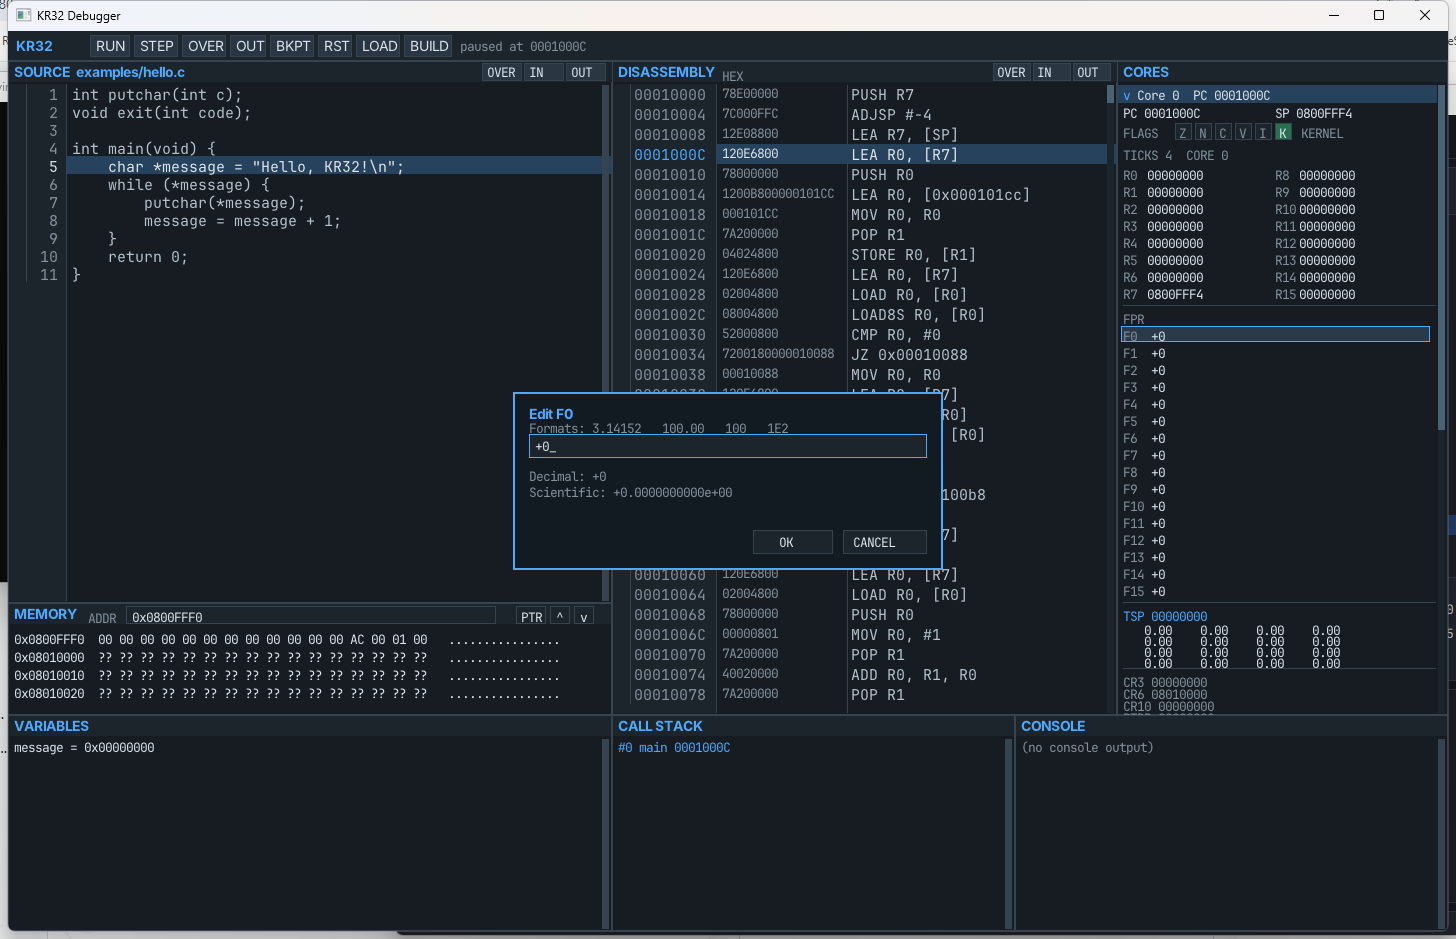
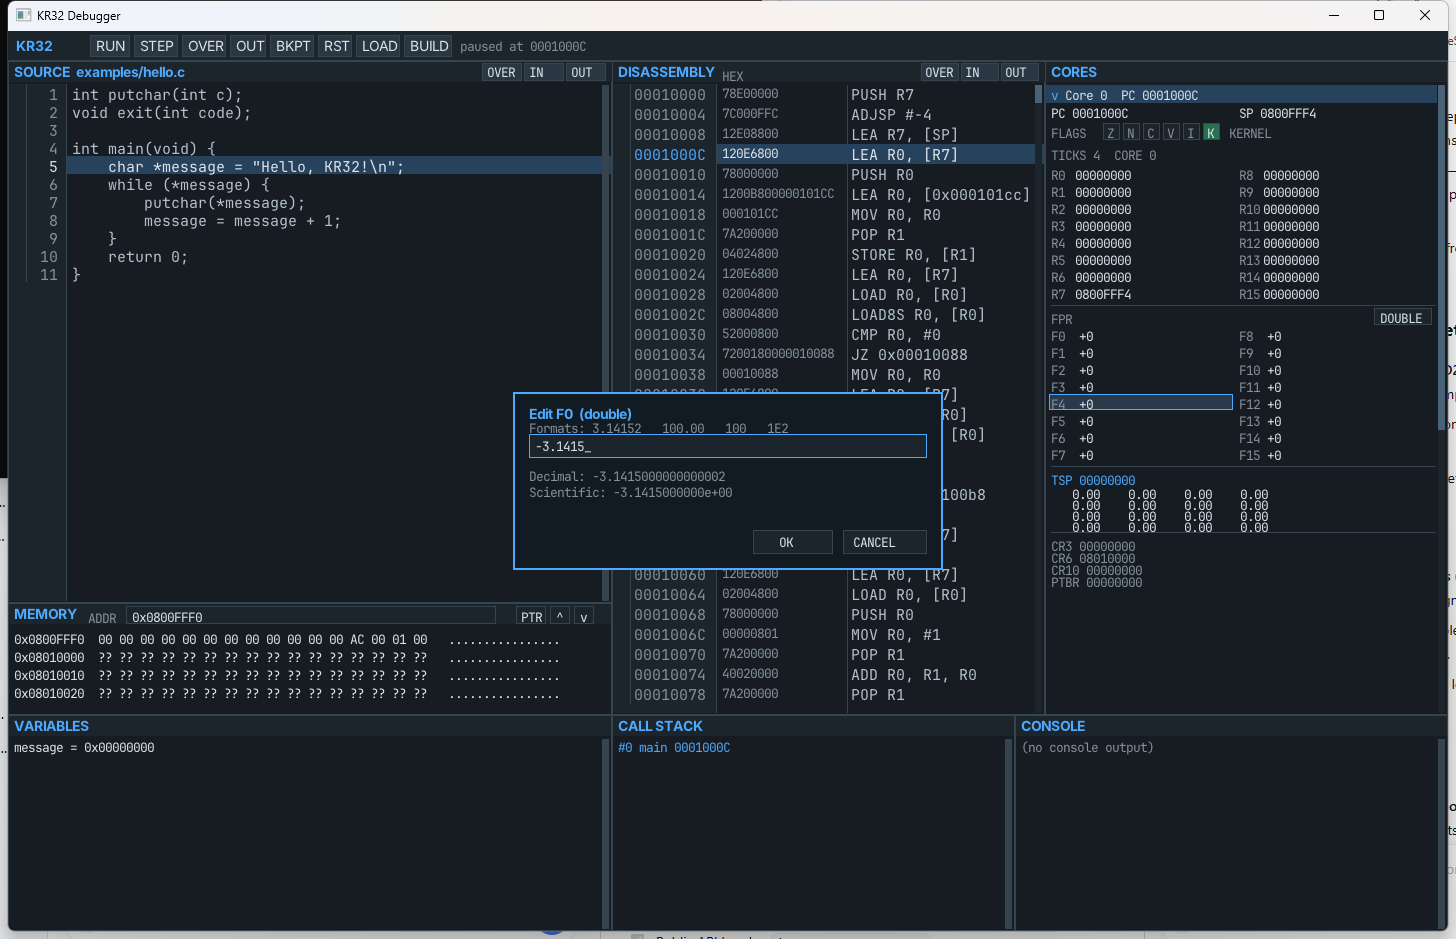
UI: two-column FPRs with double/float view toggle

diff --git a/src/ui/debugger_ui.cpp b/src/ui/debugger_ui.cpp
@@ -134,6 +134,20 @@ std::string DebuggerUI::format_fpr(std::uint64_t value, bool scientific) const {
     return out.str();
 }
 
+std::string DebuggerUI::format_fpr_float(std::uint32_t value, bool scientific) const {
+    const float number = std::bit_cast<float>(value);
+    if (std::isnan(number)) return "nan";
+    if (std::isinf(number)) return std::signbit(number) ? "-inf" : "+inf";
+    std::ostringstream out;
+    out << std::showpos;
+    if (scientific) {
+        out << std::scientific << std::setprecision(6) << number;
+    } else {
+        out << std::defaultfloat << std::setprecision(8) << number;
+    }
+    return out.str();
+}
+
 bool DebuggerUI::load(const std::string& path, std::string& error) {
     std::string source_path;
     if (has_c_extension(path)) {
@@ -721,22 +735,36 @@ int DebuggerUI::draw_core_state(Canvas& canvas, Rect rect, std::size_t core_inde
     canvas.fill(Rect{rect.x, y + 2, rect.width, 1}, kBorder);
     y += 8;
     canvas.text(rect.x, y, "FPR", kDim, FontRole::MonoSmall);
+    fpr_view_rect_ = Rect{rect.x + rect.width - 62, y - 3, 58, 17};
+    canvas.fill(fpr_view_rect_, kPanelAlt);
+    canvas.frame(fpr_view_rect_, kBorder);
+    canvas.text(fpr_view_rect_.x + 6, fpr_view_rect_.y + 2,
+                fpr_float_view_ ? "FLOAT" : "DOUBLE", kText, FontRole::MonoSmall);
     y += 17;
-    for (int index = 0; index < 16; ++index) {
-        const int x = rect.x;
-        const std::uint64_t bits = machine.fpr(static_cast<std::size_t>(index));
-        std::string display = format_fpr(bits, false);
-        if (Canvas::text_width(display, FontRole::MonoSmall) > rect.width - 42) {
-            display = format_fpr(bits, true);
+    for (int row = 0; row < 8; ++row) {
+        for (int column = 0; column < 2; ++column) {
+            const int index = row + column * 8;
+            const int x = rect.x + column * column_width;
+            const std::uint64_t bits = machine.fpr(static_cast<std::size_t>(index));
+            std::string display =
+                fpr_float_view_
+                    ? format_fpr_float(static_cast<std::uint32_t>(bits & 0xFFFFFFFFU), false)
+                    : format_fpr(bits, false);
+            if (Canvas::text_width(display, FontRole::MonoSmall) > column_width - 36) {
+                display =
+                    fpr_float_view_
+                        ? format_fpr_float(static_cast<std::uint32_t>(bits & 0xFFFFFFFFU), true)
+                        : format_fpr(bits, true);
+            }
+            const Rect cell{x - 2, y - 2, column_width - 4, 16};
+            fpr_cells_.push_back(cell);
+            if (hover_fpr_ == index) {
+                canvas.fill(cell, Color{42, 58, 74, 255});
+                canvas.frame(cell, kAccent);
+            }
+            canvas.text(x, y, "F" + std::to_string(index), kDim, FontRole::MonoSmall);
+            canvas.text(x + 28, y, display, kText, FontRole::MonoSmall);
         }
-        const Rect cell{x - 2, y - 2, rect.width - 4, 16};
-        fpr_cells_.push_back(cell);
-        if (hover_fpr_ == index) {
-            canvas.fill(cell, Color{42, 58, 74, 255});
-            canvas.frame(cell, kAccent);
-        }
-        canvas.text(x, y, "F" + std::to_string(index), kDim, FontRole::MonoSmall);
-        canvas.text(x + 28, y, display, kText, FontRole::MonoSmall);
         y += 17;
     }
 
@@ -902,8 +930,11 @@ void DebuggerUI::finish_register_edit(bool commit) {
 void DebuggerUI::begin_fpr_edit(int index) {
     if (index < 0 || index > 15) return;
     editing_fpr_ = index;
-    fpr_edit_ = format_fpr(session_.core(selected_core_).fpr(static_cast<std::size_t>(index)),
-                           false);
+    const std::uint64_t bits =
+        session_.core(selected_core_).fpr(static_cast<std::size_t>(index));
+    fpr_edit_ = fpr_float_view_
+                    ? format_fpr_float(static_cast<std::uint32_t>(bits & 0xFFFFFFFFU), false)
+                    : format_fpr(bits, false);
     fpr_edit_fresh_ = true;
 }
 
@@ -911,14 +942,27 @@ void DebuggerUI::finish_fpr_edit(bool commit) {
     if (editing_fpr_ < 0) return;
     if (commit && !fpr_edit_.empty()) {
         char* end = nullptr;
-        const double value = std::strtod(fpr_edit_.c_str(), &end);
-        if (end != nullptr && *end == '\0') {
-            session_.core(selected_core_)
-                .set_fpr(static_cast<std::size_t>(editing_fpr_),
-                         std::bit_cast<std::uint64_t>(value));
-            status_ = "F" + std::to_string(editing_fpr_) + " updated";
+        if (fpr_float_view_) {
+            const float value = std::strtof(fpr_edit_.c_str(), &end);
+            if (end != nullptr && *end == '\0') {
+                session_.core(selected_core_)
+                    .set_fpr(static_cast<std::size_t>(editing_fpr_),
+                             static_cast<std::uint64_t>(
+                                 std::bit_cast<std::uint32_t>(value)));
+                status_ = "F" + std::to_string(editing_fpr_) + " updated (float)";
+            } else {
+                status_ = "invalid floating-point value";
+            }
         } else {
-            status_ = "invalid floating-point value";
+            const double value = std::strtod(fpr_edit_.c_str(), &end);
+            if (end != nullptr && *end == '\0') {
+                session_.core(selected_core_)
+                    .set_fpr(static_cast<std::size_t>(editing_fpr_),
+                             std::bit_cast<std::uint64_t>(value));
+                status_ = "F" + std::to_string(editing_fpr_) + " updated (double)";
+            } else {
+                status_ = "invalid floating-point value";
+            }
         }
     }
     editing_fpr_ = -1;
@@ -938,8 +982,10 @@ void DebuggerUI::draw_fpr_popup(Canvas& canvas) {
     fpr_cancel_rect_ = Rect{x + width - 100, y + height - 40, 84, 24};
     canvas.fill(fpr_popup_, Color{18, 26, 34, 255});
     canvas.frame(fpr_popup_, kAccent, 2);
-    canvas.text(x + 16, y + 14, "Edit F" + std::to_string(editing_fpr_), kAccent,
-                FontRole::UiBold);
+    canvas.text(x + 16, y + 14,
+                "Edit F" + std::to_string(editing_fpr_) +
+                    (fpr_float_view_ ? "  (float)" : "  (double)"),
+                kAccent, FontRole::UiBold);
     canvas.text(x + 16, y + 28,
                 "Formats: 3.14152   100.00   100   1E2",
                 kDim, FontRole::MonoSmall);
@@ -947,24 +993,19 @@ void DebuggerUI::draw_fpr_popup(Canvas& canvas) {
     canvas.frame(fpr_input_rect_, kAccent);
     canvas.text(fpr_input_rect_.x + 6, fpr_input_rect_.y + 4, fpr_edit_ + "_", kText,
                 FontRole::MonoSmall);
-    canvas.text(x + 16, y + 76,
-                "Decimal: " + this->format_fpr(std::bit_cast<std::uint64_t>(
-                                              [&] {
-                                                  char* end = nullptr;
-                                                  const double v = std::strtod(fpr_edit_.c_str(), &end);
-                                                  return end != nullptr && *end == '\0' ? v : 0.0;
-                                              }()),
-                                          false),
-                kDim, FontRole::MonoSmall);
-    canvas.text(x + 16, y + 92,
-                "Scientific: " + this->format_fpr(std::bit_cast<std::uint64_t>(
-                                                 [&] {
-                                                     char* end = nullptr;
-                                                     const double v = std::strtod(fpr_edit_.c_str(), &end);
-                                                     return end != nullptr && *end == '\0' ? v : 0.0;
-                                                 }()),
-                                             true),
-                kDim, FontRole::MonoSmall);
+    const auto preview = [&](bool scientific) {
+        char* end = nullptr;
+        if (fpr_float_view_) {
+            const float value = std::strtof(fpr_edit_.c_str(), &end);
+            if (end == nullptr || *end != '\0') return std::string("invalid");
+            return format_fpr_float(std::bit_cast<std::uint32_t>(value), scientific);
+        }
+        const double value = std::strtod(fpr_edit_.c_str(), &end);
+        if (end == nullptr || *end != '\0') return std::string("invalid");
+        return format_fpr(std::bit_cast<std::uint64_t>(value), scientific);
+    };
+    canvas.text(x + 16, y + 76, "Decimal: " + preview(false), kDim, FontRole::MonoSmall);
+    canvas.text(x + 16, y + 92, "Scientific: " + preview(true), kDim, FontRole::MonoSmall);
     canvas.fill(fpr_ok_rect_, kPanelAlt);
     canvas.frame(fpr_ok_rect_, kBorder);
     canvas.text(fpr_ok_rect_.x + 26, fpr_ok_rect_.y + 4, "OK", kText, FontRole::MonoSmall);
@@ -978,10 +1019,16 @@ void DebuggerUI::draw_fpr_tooltip(Canvas& canvas) {
     if (hover_fpr_ < 0 || hover_fpr_ > 15 || editing_fpr_ >= 0 || menu_.open) return;
     const std::uint64_t bits =
         session_.core(selected_core_).fpr(static_cast<std::size_t>(hover_fpr_));
+    const std::string decimal_text =
+        fpr_float_view_ ? format_fpr_float(static_cast<std::uint32_t>(bits & 0xFFFFFFFFU), false)
+                        : format_fpr(bits, false);
+    const std::string scientific_text =
+        fpr_float_view_ ? format_fpr_float(static_cast<std::uint32_t>(bits & 0xFFFFFFFFU), true)
+                        : format_fpr(bits, true);
     const std::vector<std::string> lines{
-        "F" + std::to_string(hover_fpr_),
-        "decimal: " + this->format_fpr(bits, false),
-        "scientific: " + this->format_fpr(bits, true),
+        "F" + std::to_string(hover_fpr_) + (fpr_float_view_ ? "  (float)" : "  (double)"),
+        "decimal: " + decimal_text,
+        "scientific: " + scientific_text,
         "hex: 0x" + hex(static_cast<std::uint32_t>(bits >> 32), 8) +
             hex(static_cast<std::uint32_t>(bits & 0xFFFFFFFFU), 8),
     };
@@ -1179,7 +1226,7 @@ void DebuggerUI::draw_console(Canvas& canvas, Rect rect) {
 }
 
 DebuggerUI::Layout DebuggerUI::layout(int width, int height) const {
-    const int right_width = std::clamp(width * 23 / 100, 230, 360);
+    const int right_width = std::clamp(width * 28 / 100, 270, 420);
     int source_width = std::clamp(width * 42 / 100, 240, width - right_width - 300);
     int disassembly_width = width - source_width - right_width;
     if (disassembly_width < 300) {
@@ -1600,6 +1647,10 @@ bool DebuggerUI::click(int x, int y, int width, int height) {
         if (!register_cells_[index].contains(x, y)) continue;
         finish_memory_address_edit(true);
         begin_register_edit(static_cast<int>(index));
+        return true;
+    }
+    if (fpr_view_rect_.contains(x, y)) {
+        fpr_float_view_ = !fpr_float_view_;
         return true;
     }
     for (std::size_t index = 0; index < fpr_cells_.size(); ++index) {

diff --git a/include/kr32/ui/debugger_ui.h b/include/kr32/ui/debugger_ui.h
@@ -80,6 +80,7 @@ private:
     void draw_fpr_popup(Canvas& canvas);
     void draw_fpr_tooltip(Canvas& canvas);
     [[nodiscard]] std::string format_fpr(std::uint64_t value, bool scientific) const;
+    [[nodiscard]] std::string format_fpr_float(std::uint32_t value, bool scientific) const;
     void draw_variable_tooltip(Canvas& canvas);
     void draw_scrollbar(Canvas& canvas, Rect panel, int offset, int total, int visible,
                         Rect& track, Rect& thumb);
@@ -145,8 +146,10 @@ private:
     int hover_flag_ = -1;
     int hover_fpr_ = -1;
     int editing_fpr_ = -1;
+    bool fpr_float_view_ = false;
     std::string fpr_edit_;
     bool fpr_edit_fresh_ = true;
+    Rect fpr_view_rect_{};
     Rect fpr_popup_{};
     Rect fpr_input_rect_{};
     Rect fpr_ok_rect_{};

diff --git a/docs/ui.md b/docs/ui.md
@@ -50,13 +50,13 @@ executables load directly.
 
 The right-hand **CORES** panel lists one row per core and is expandable. The
 expanded row shows that core's PC/SP/FLAGS, GPRs, F0-F15, TSP and T0 tile,
-paging registers, and control registers. F0-F15 are shown one per line as full
-64-bit doubles using decimal notation (falling back to scientific notation when
-the decimal form does not fit). Click an FPR to open the floating-point editor.
-Click a core row to select it or collapse/expand its details. The **MEMORY**
-panel is docked beneath the source pane and shows four address/hex/ASCII lines.
-**VARIABLES**, **CALL STACK**, and **CONSOLE** remain visible along the bottom
-row, with the extra width freed by moving memory into the source column.
+paging registers, and control registers. F0-F15 are shown in two columns of
+eight. The FPR header has a **DOUBLE / FLOAT** toggle: DOUBLE interprets the full
+64-bit register, while FLOAT interprets the low 32 bits used by `.S`
+instructions. Click an FPR to open the floating-point editor. Click a core row
+to select it or collapse/expand its details. The **MEMORY** panel is docked
+beneath the source pane and shows four address/hex/ASCII lines. **VARIABLES**,
+**CALL STACK**, and **CONSOLE** remain visible along the bottom row.
 
 The memory starting address is editable: click anywhere on the **ADDR** field or
 label, type up to eight hex digits, then press Enter; Escape cancels. **PTR**
@@ -75,8 +75,10 @@ one 16-byte row.
   shows a highlighted edit cursor.
 - **Floating-point registers** use a popup editor. Accepted forms include
   `3.14152`, `100.00`, `100`, and `1E2`; Enter commits and Escape cancels.
+  The **DOUBLE / FLOAT** toggle selects whether the value is interpreted as a
+  64-bit double or the low 32-bit float from `.S` operations.
   Hovering an FPR shows the signed decimal value, signed scientific value, and
-  the raw 64-bit hex encoding.
+  the raw 64-bit hex encoding for the active view.
 - The core flag row shows **Z N C V I K**. Click Z/N/C/V/I to toggle the bit;
   K is the current privilege mode and is read-only.
 - Hovering a variable row shows a tooltip with its local/global kind, type,
@@ -115,7 +117,8 @@ one 16-byte row.
 - Click a core row to select it and toggle its expanded state.
 - Click a GPR/PC/SP cell to edit it; click a Z/N/C/V/I flag to toggle it.
 - Click an FPR to open the decimal/scientific editor; hover an FPR for its
-  signed decimal, scientific, and hex values.
+  signed decimal, scientific, and hex values. Use the FPR **DOUBLE / FLOAT**
+  toggle to switch the active interpretation.
 - Hover a variable row for type/address/value details.
 - Click the memory **ADDR** field or label to edit the starting address; Enter
   commits and Escape cancels. **PTR** follows SP; **^** / **v** scroll by 16 bytes.

diff --git a/implementation.md b/implementation.md
@@ -3,7 +3,7 @@
 > **Status:** active. This file is the working checklist, milestone gate, dependency
 > record, and running log for KR32.
 >
-> **Last updated:** 2026-11-02 10:37 -08:00
+> **Last updated:** 2026-11-02 10:43 -08:00
 >
 > **Related:** [KR32-plan.md](KR32-plan.md) (architecture and decisions),
 > [docs/isa-v1.md](docs/isa-v1.md) (encoding), [kr16-final-plan.md](kr16-final-plan.md)
@@ -922,6 +922,9 @@ Newest entries at the bottom. Use the local time zone.
 - **2026-11-02 10:37 -08:00** — Added scrollbar thumb dragging and mouse-up
       handling; improved memory/register edit feedback. Re-verified UI after the
       FPR layout/editor changes.
+- **2026-11-02 10:43 -08:00** — Restored the FPR panel to two columns of eight,
+      widened the Cores panel, and added a DOUBLE/FLOAT interpretation toggle.
+      FPR editing and hover now follow the active view; the default is double.
 
 ## 10. Updating this file
 
